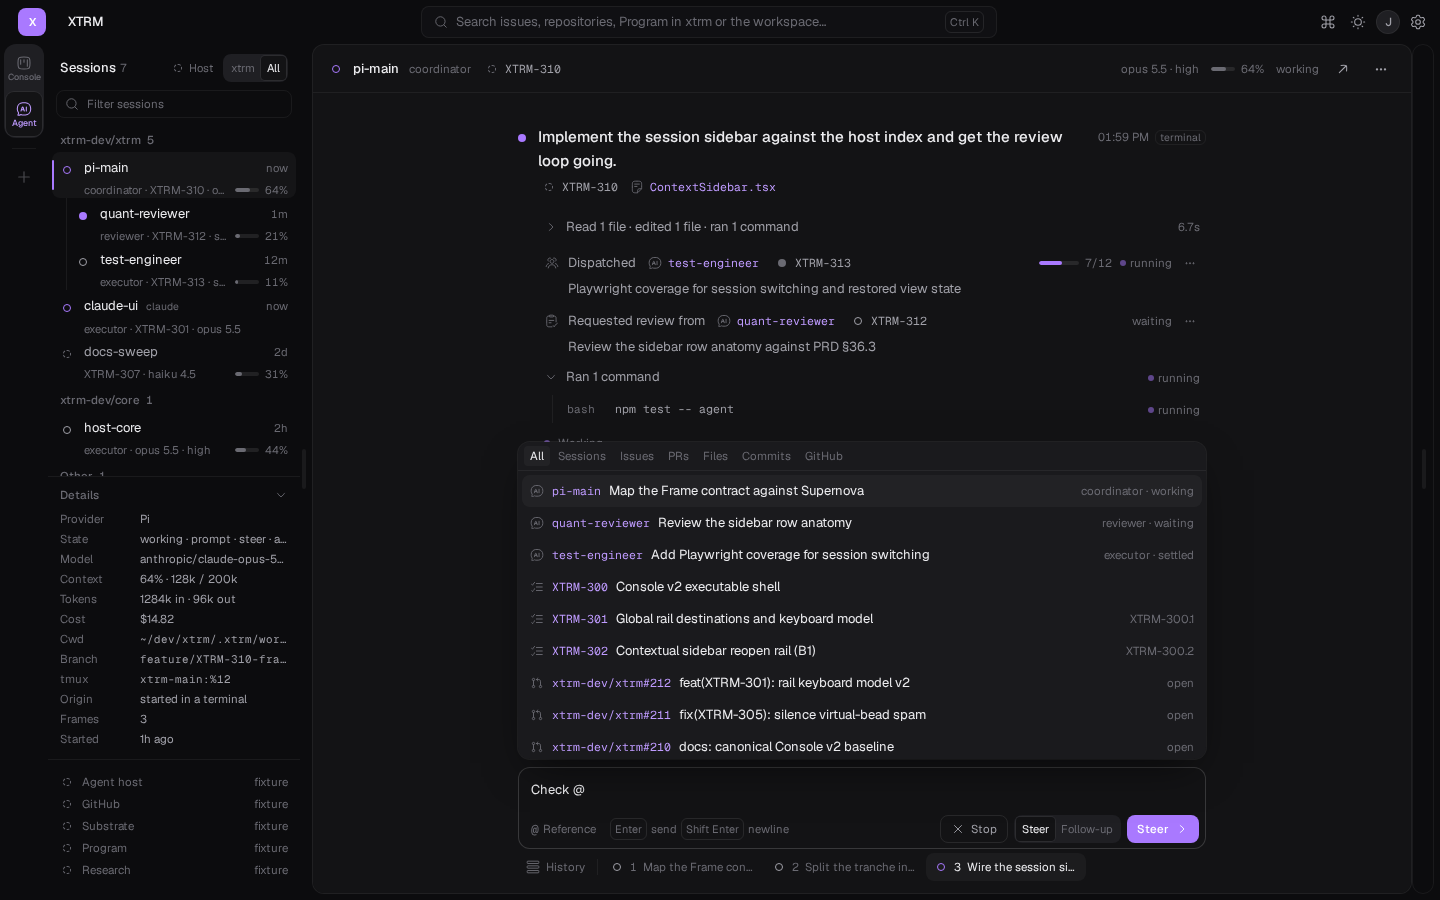
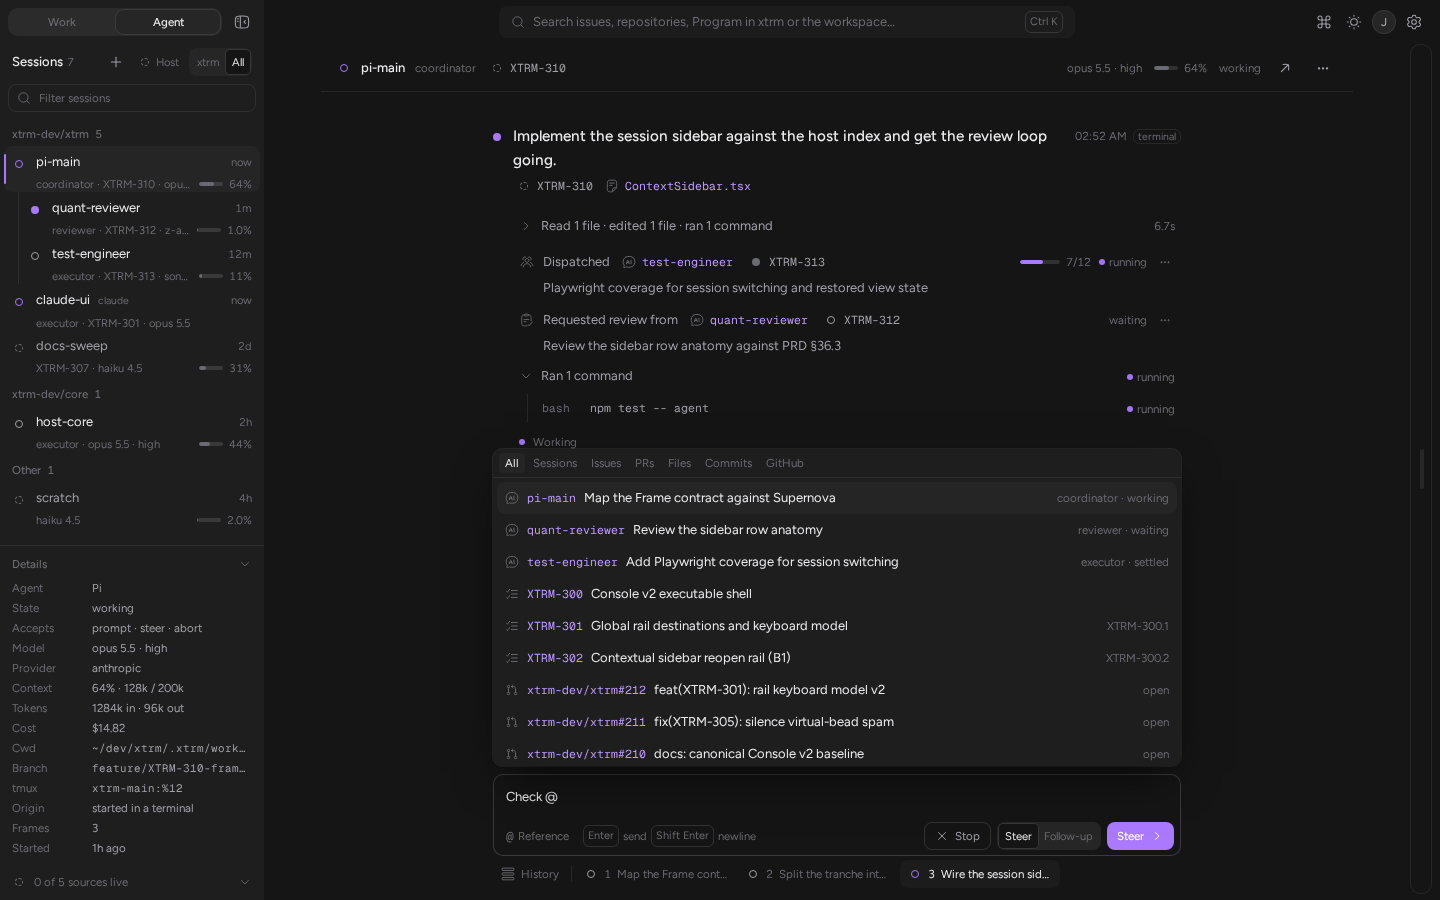
feat(xtrm-app): flatten the dark surface ladder onto #151515 / #1e1e1e (XTRM-702)
## Change
- `src/styles.css` dark block: `--x-surface` #151515, `--x-sidebar` and `--x-raised`
  #1e1e1e, `--x-deep` #0d0d0d, `--x-control` #262626. Hairlines now carry the
  separation (muted 0.06→0.08, subtle 0.045→0.06, border 0.09→0.12, strong 0.16→0.18)
  and `--x-shadow-float` is deepened for the darker plane (18px/44px at 0.72, ring 0.08).
- `--x-hover` 0.05→0.03 and `--x-pressed` 0.10→0.06: on the flattened ladder a 0.05
  hover landed on #292929, lighter than the at-rest control (#262626). The new pair
  keeps hover under the control step (1.088) and pressed past it (1.194), which is the
  relationship the light theme already has against its own plane.
- Dark modal scrims (`IssueView`, `NewIssueDialog`, command menu) at black/50. The light
  scrim values are untouched.
- Regenerated the eight dark agent-half screenshots. Light PNGs are reverted: their drift
  predates this change and comes from the Figtree rasterization (a clean HEAD regenerates
  them identically).

## Why
The operator wants a darker, flatter dark theme: main view #151515, left sidebar and
inspector frame #1e1e1e. #1e1e1e was chosen over #191919 because the flatter option
collapses the panel edge.

## Verification
- `npm run typecheck` clean; `npx vitest run` 441 passed / 5 skipped.
- `npx playwright test --workers=2` 28 passed. The default worker count times out on
  `page.goto` on this loaded host; clean HEAD shows the same failures at that width.
[…]

diff --git a/packages/xtrm-app/src/styles.css b/packages/xtrm-app/src/styles.css
@@ -44,20 +44,22 @@
 
 :root[data-theme="dark"] {
   color-scheme: dark;
-  --x-deep: #141416;
-  --x-sidebar: #212124;
-  --x-surface: #1a1a1c;
-  --x-raised: #242427;
-  --x-control: #2b2b2f;
-  --x-hover: rgb(255 255 255 / 0.05);
-  --x-pressed: rgb(255 255 255 / 0.1);
+  /* Dark ladder: the sidebar and the raised plane share #1e1e1e, so separation comes from the
+     hairlines below rather than from a fourth background step. */
+  --x-deep: #0d0d0d;
+  --x-sidebar: #1e1e1e;
+  --x-surface: #151515;
+  --x-raised: #1e1e1e;
+  --x-control: #262626;
+  --x-hover: rgb(255 255 255 / 0.03);
+  --x-pressed: rgb(255 255 255 / 0.06);
   --x-ink: #ececef;
   --x-ink-muted: #a0a0a8;
   --x-ink-faint: #6a6a72;
-  --x-border-muted: rgb(255 255 255 / 0.06);
-  --x-border-subtle: rgb(255 255 255 / 0.045);
-  --x-border: rgb(255 255 255 / 0.09);
-  --x-border-strong: rgb(255 255 255 / 0.16);
+  --x-border-muted: rgb(255 255 255 / 0.08);
+  --x-border-subtle: rgb(255 255 255 / 0.06);
+  --x-border: rgb(255 255 255 / 0.12);
+  --x-border-strong: rgb(255 255 255 / 0.18);
   --x-github: #f0f6fc;
   --x-github-hover: #ffffff;
   --x-github-ink: #24292f;
@@ -69,7 +71,7 @@
   --x-success: #5ccb8a;
   --x-diff-add: #5ccb8a;
   --x-diff-del: #f07171;
-  --x-shadow-float: 0 16px 40px -12px rgb(0 0 0 / 0.6), 0 0 0 1px rgb(255 255 255 / 0.07);
+  --x-shadow-float: 0 18px 44px -12px rgb(0 0 0 / 0.72), 0 0 0 1px rgb(255 255 255 / 0.08);
 }
 
 @theme inline {

diff --git a/packages/xtrm-app/src/issues/IssueView.tsx b/packages/xtrm-app/src/issues/IssueView.tsx
@@ -239,7 +239,7 @@ function NormalizeBanner({ plan, issue, canWrite, onApply }: { plan: Normalizati
       <Dialog.Root open={open} onOpenChange={setOpen}>
         <Dialog.Trigger className="h-7 shrink-0 rounded-md border border-border px-2.5 text-sm text-ink outline-none hover:bg-hover focus-visible:bg-hover">Review mapping</Dialog.Trigger>
         <Dialog.Portal>
-          <Dialog.Backdrop className="fixed inset-0 z-40 bg-black/30" />
+          <Dialog.Backdrop className="fixed inset-0 z-40 bg-black/30 dark:bg-black/50" />
           <Dialog.Popup className="thin-scrollbar fixed top-[8vh] left-1/2 z-50 flex max-h-[84vh] w-[min(760px,calc(100vw-32px))] -translate-x-1/2 flex-col overflow-hidden rounded-lg bg-raised shadow-float outline-none">
             <div className="flex h-12 shrink-0 items-center border-b border-border-muted px-5">
               <Dialog.Title className="text-base font-medium text-ink">Normalize {issue.ref} contract</Dialog.Title>

diff --git a/packages/xtrm-app/src/issues/NewIssueDialog.tsx b/packages/xtrm-app/src/issues/NewIssueDialog.tsx
@@ -67,7 +67,7 @@ export function NewIssueDialog({ open, onOpenChange, projectId, onCreated }: { o
   return (
     <Dialog.Root open={open} onOpenChange={onOpenChange}>
       <Dialog.Portal>
-        <Dialog.Backdrop className="fixed inset-0 z-40 bg-black/30" />
+        <Dialog.Backdrop className="fixed inset-0 z-40 bg-black/30 dark:bg-black/50" />
         <Dialog.Popup className="fixed top-[6vh] left-1/2 z-50 flex max-h-[88vh] w-[min(720px,calc(100vw-32px))] -translate-x-1/2 flex-col overflow-hidden rounded-lg bg-raised shadow-float outline-none">
           <div className="flex h-12 shrink-0 items-center border-b border-border-muted px-5">
             <Dialog.Title className="text-base font-medium text-ink">New issue</Dialog.Title>

diff --git a/packages/xtrm-app/src/ui/command-menu.tsx b/packages/xtrm-app/src/ui/command-menu.tsx
@@ -59,7 +59,7 @@ export function CommandMenu({
   return (
     <Dialog.Root open={open} onOpenChange={onOpenChange}>
       <Dialog.Portal>
-        <Dialog.Backdrop className="fixed inset-0 z-40 bg-black/20 dark:bg-black/40" />
+        <Dialog.Backdrop className="fixed inset-0 z-40 bg-black/20 dark:bg-black/50" />
         <Dialog.Popup
           aria-label="Search and commands"
           className="fixed top-[14vh] left-1/2 z-50 w-[min(640px,calc(100vw-32px))] -translate-x-1/2 overflow-hidden rounded-lg bg-raised shadow-float outline-none"
